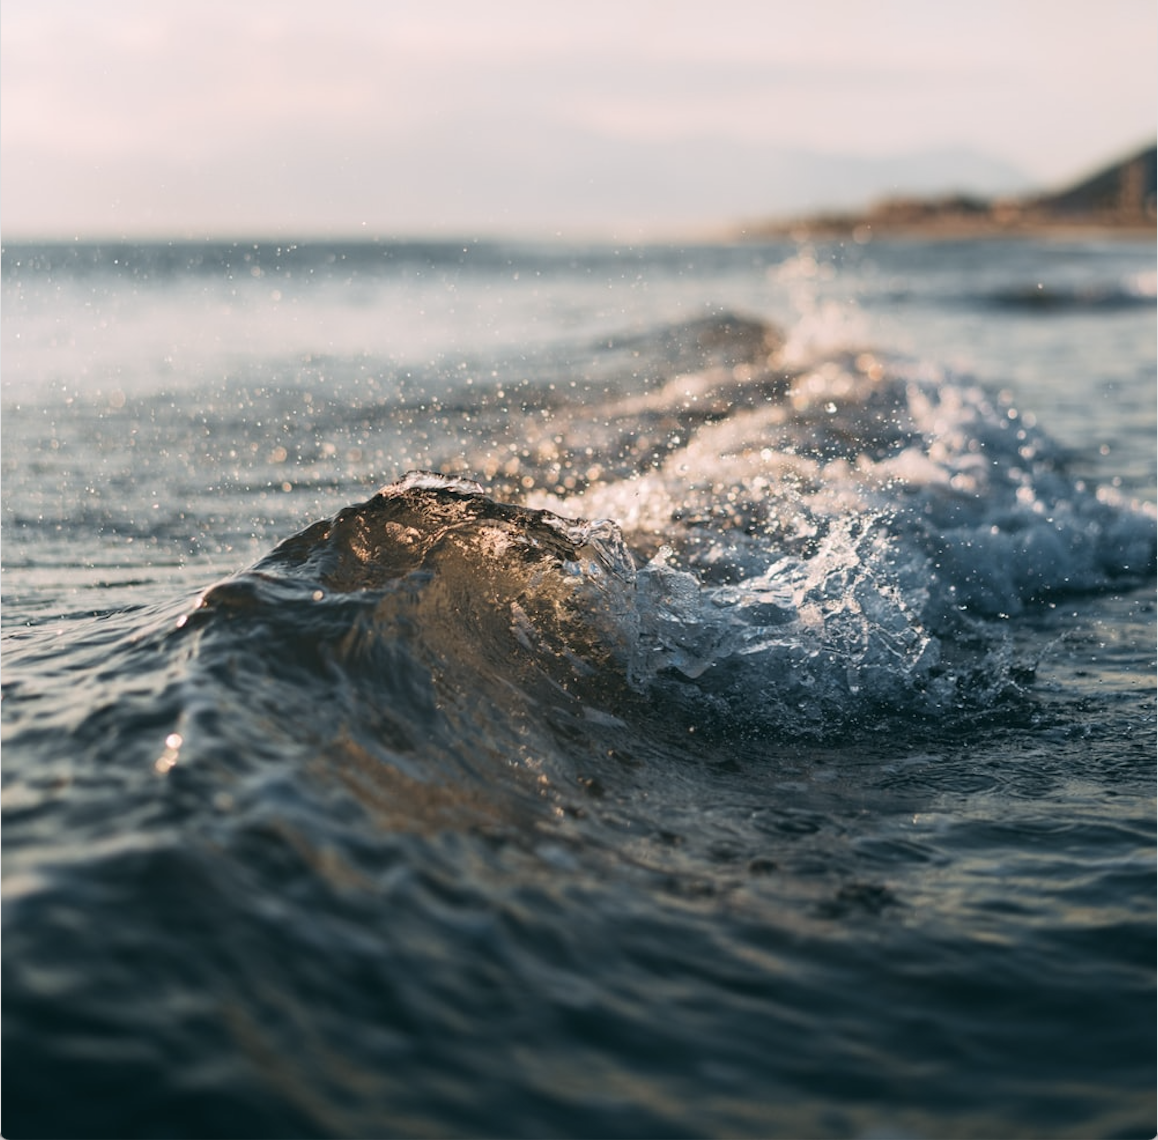
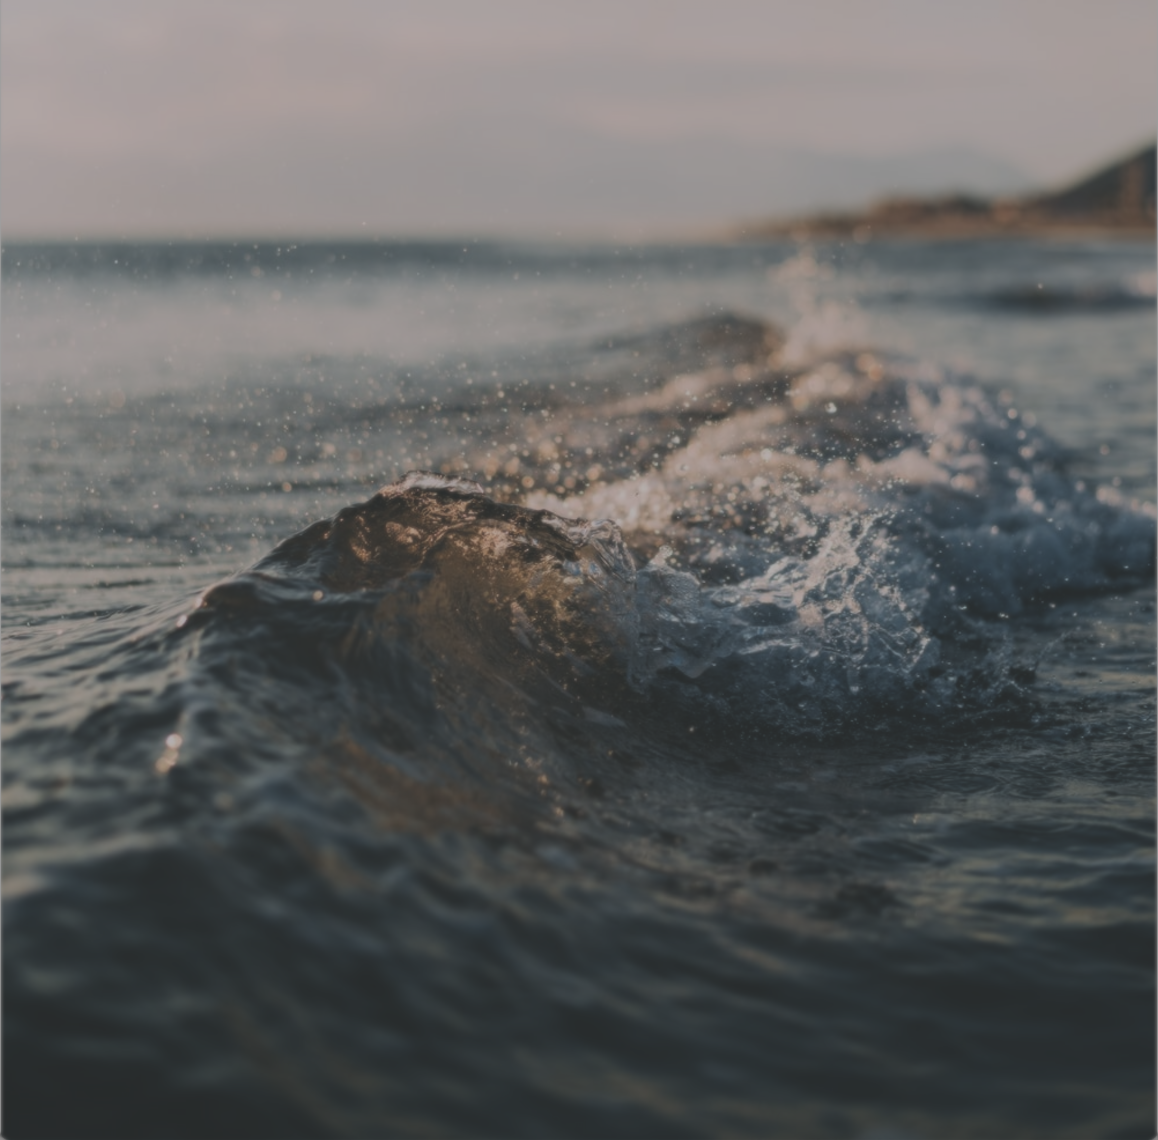
modify contrast, exposure, and sharpness of background images; add FBP conference link on frontpage

diff --git a/static/js/main.4c6695fc.chunk.js b/static/js/main.4c6695fc.chunk.js
@@ -1,0 +1,2 @@
+(this.webpackJsonptb=this.webpackJsonptb||[]).push([[0],{11:function(e,a,t){e.exports=t(20)},16:function(e,a,t){},19:function(e,a,t){},20:function(e,a,t){"use strict";t.r(a);var n=t(0),r=t.n(n),l=t(9),s=t.n(l),c=(t(16),t(1)),i=t(2),o=t(4),m=t(3),u=t(5),h=t(7),d=t(10),p=t.n(d),E=(t(19),function(e){function a(){return Object(c.a)(this,a),Object(o.a)(this,Object(m.a)(a).apply(this,arguments))}return Object(u.a)(a,e),Object(i.a)(a,[{key:"render",value:function(){if(this.props.data)var e=this.props.data.name,a=(this.props.data.chname,this.props.data.occupation),t=(this.props.data.description,"images/"+this.props.data.image),n=(this.props.data.bio,this.props.data.social.map((function(e){return r.a.createElement("li",{key:e.name},r.a.createElement("a",{href:e.url,target:"_blank"},r.a.createElement("i",{className:e.className})))})));return r.a.createElement("header",{id:"home"},r.a.createElement("nav",{id:"nav-wrap"},r.a.createElement("a",{className:"mobile-btn",href:"#nav-wrap",title:"Show navigation"},"Show navigation"),r.a.createElement("a",{className:"mobile-btn",href:"#home",title:"Hide navigation"},"Hide navigation"),r.a.createElement("ul",{id:"nav",className:"nav"},r.a.createElement("li",{className:"current"},r.a.createElement("a",{className:"smoothscroll",href:"#home"},"Home")),r.a.createElement("li",null,r.a.createElement("a",{className:"smoothscroll",href:"#about"},"  About & Contact ")),r.a.createElement("li",null,r.a.createElement("a",{className:"smoothscroll",href:"#resume"},"  CV")),r.a.createElement("li",null,r.a.createElement("a",{className:"smoothscroll",href:"#research"},"  Research")),r.a.createElement("li",null,r.a.createElement("a",{href:"teaching.html"},"  Teaching ")),r.a.createElement("li",null,r.a.createElement("a",{className:"smoothscroll",href:"#testimonials"},"  Life Philosophy")))),r.a.createElement("div",{className:"row banner"},r.a.createElement("div",{className:"banner-img"},r.a.createElement("img",{className:"profile-pic",src:t,alt:"Chen-Chih Profile Pic"})),r.a.createElement("div",{className:"banner-text"},r.a.createElement("h1",{className:"responsive-headline"},e),r.a.createElement("h3",{style:{width:800}}," ",r.a.createElement("div",{style:{"line-height":36}},"Hi! I'm a ",a," passionate about Partial Differential Equations and Fluid Mechanics.")),r.a.createElement("br",null),r.a.createElement("h5",{style:{color:"#FFFF00"}},"Checkout ",r.a.createElement("span",{style:{fontWeight:"bold"}},r.a.createElement("u",null,r.a.createElement("a",{style:{color:"#00EEEE"},href:"https://sites.google.com/view/2023columbiafreeboundary/home?authuser=0"},"Free Boundary Problems: Lecture Series and Recent Advances in Theory and Applications")))),r.a.createElement("h5",{style:{color:"#FFFF00"}},"May 30 \u2013 June 2, 2023 at Columbia University"),r.a.createElement("ul",{className:"social"},n))),r.a.createElement("p",{className:"scrolldown"},r.a.createElement("a",{className:"smoothscroll",href:"#about"},r.a.createElement("i",{className:"icon-down-circle"}))))}}]),a}(n.Component)),f=function(e){function a(){return Object(c.a)(this,a),Object(o.a)(this,Object(m.a)(a).apply(this,arguments))}return Object(u.a)(a,e),Object(i.a)(a,[{key:"render",value:function(){if(this.props.data)var e=this.props.data.social.map((function(e){return r.a.createElement("li",{key:e.name},r.a.createElement("a",{href:e.url},r.a.createElement("i",{className:e.className})))}));return r.a.createElement("footer",null,r.a.createElement("div",{className:"row"},r.a.createElement("div",{className:"twelve columns"},r.a.createElement("ul",{className:"social-links"},e),r.a.createElement("ul",{className:"copyright"},r.a.createElement("li",null,"\xa9 Copyright 2021 ",r.a.createElement("a",{href:"https://github.com/lai-chen-chih?tab=repositories"},"Chen-Chih Lai")))),r.a.createElement("div",{id:"go-top"},r.a.createElement("a",{className:"smoothscroll",title:"Back to Top",href:"#home"},r.a.createElement("i",{className:"icon-up-open"})))))}}]),a}(n.Component),v=function(e){function a(){return Object(c.a)(this,a),Object(o.a)(this,Object(m.a)(a).apply(this,arguments))}return Object(u.a)(a,e),Object(i.a)(a,[{key:"renderText",value:function(e,a){if(void 0!==e.aboutMe){for(var t=e.aboutMe,n=t.indexOf("UBC Math Department");n>0;)a.push(t.substring(0,n)),a.push(r.a.createElement("a",{href:"https://www.math.ubc.ca"},"UBC Math Department ")),n=t.indexOf("UBC Math Department",n+2);a.forEach((function(e,n){for(var l=t.indexOf("Prof. Tai-Peng Tsai");l>0;)a.push(t.substring(0,l)),a.push(r.a.createElement("a",{href:"https://www.math.ubc.ca"},"Prof. Tai-Peng Tsai ")),l=t.indexOf("Prof. Tai-Peng Tsai",l+1)}))}return console.log(a),a}},{key:"render",value:function(){if(this.props.data){var e=this.props.data.name,a=(this.props.data.chname,this.props.data.address.department),t=(this.props.data.image,this.props.data.address.street),n=this.props.data.address.city,l=this.props.data.address.state,s=this.props.data.address.zip,c=this.props.data.office,i=this.props.data.email;this.props.data.resumedownload,this.props.data.aboutMe}return r.a.createElement("section",{id:"about"},r.a.createElement("div",{className:"row banner"},r.a.createElement("div",{className:"banner-text"},r.a.createElement("h2",null,"About Me"),r.a.createElement("p",null,"I am a Postdoctoral Research Scientist in the",r.a.createElement("a",{href:"https://www.math.columbia.edu"}," Department of Mathematics "),"at",r.a.createElement("a",{href:"https://www.columbia.edu"}," Columbia University "),"under the mentorship of Prof. ",r.a.createElement("a",{href:"http://www.columbia.edu/~miw2103/"},"Michael I. Weinstein"),". My research interest covers regularity of Navier\u2013Stokes flows near boundary, existence and stability problems in fluid-related models, and dynamic free boundary problems. Currently, I am interested in dynamics and geometry of a gas bubble deforming in a liquid.",r.a.createElement("br",null),r.a.createElement("h2",null),"I received my Ph.D. in the",r.a.createElement("a",{href:"https://www.math.ubc.ca"}," Department of Mathematics "),"at the",r.a.createElement("a",{href:"https://www.ubc.ca"}," Univeristy of British Columbia (UBC) "),"in July 2021, where I investigated the Green tensor of incompressible flows in the half space and examined existence theorems of fluid-related models under the supervision of Prof. ",r.a.createElement("a",{href:"http://www.math.ubc.ca/~ttsai/"},"Tai-Peng Tsai "),"and Prof. ",r.a.createElement("a",{href:"https://www.math.ubc.ca/~jcwei/"},"Juncheng Wei"),". Previously I studied reaction-diffusion equations and synchronization problems at ",r.a.createElement("a",{href:"http://www.ncts.ntu.edu.tw"},"National Center for Theoretical Science (NCTS)")," as a Research Assistant under the supervision of Prof. ",r.a.createElement("a",{href:"http://ncts.tw/people_detail.php?gid=122&bgid=4"},"Chun-Hsiung Hsia"),". Before that, I completed my M.Sc. in the",r.a.createElement("a",{href:"http://www.math.ntu.edu.tw/en"}," Department of Mathematics "),"at",r.a.createElement("a",{href:"https://www.ntu.edu.tw/english/"}," National Taiwan University (NTU) "),", where I worked on population estimates for traveling waves of Lotka\u2013Voterra system under the supervision of Prof. ",r.a.createElement("a",{href:"http://www.math.ntu.edu.tw/en/entity_people/entity_people/21478"}," Chun-Hsiung Hsia"),", Prof. ",r.a.createElement("a",{href:"http://www.math.ntu.edu.tw/en/entity_people/entity_people/21458"}," Chiun-Chuan Chen"),", and Dr. ",r.a.createElement("a",{href:"https://www.ce.ntust.edu.tw/p/404-1024-65378.php?Lang=zh-tw"}," Li-Chang Hung"),"."),r.a.createElement("div",{className:"row"},r.a.createElement("div",{className:"columns contact-details"},r.a.createElement("h2",null,"Contact Details"),r.a.createElement("p",{className:"address"},r.a.createElement("span",null,e),r.a.createElement("br",null),r.a.createElement("span",null,a),r.a.createElement("br",null),r.a.createElement("span",null,t,r.a.createElement("br",null),n,", ",l," ",s),r.a.createElement("br",null),r.a.createElement("span",null,c),r.a.createElement("br",null),r.a.createElement("span",null,i)))))))}}]),a}(n.Component),b=function(e){function a(){return Object(c.a)(this,a),Object(o.a)(this,Object(m.a)(a).apply(this,arguments))}return Object(u.a)(a,e),Object(i.a)(a,[{key:"render",value:function(){if(this.props.data){this.props.data.skillmessage;var e=this.props.data.employment.map((function(e){return r.a.createElement("div",{key:e.title},r.a.createElement("h1",null,e.title),r.a.createElement("p",null,e.course," \u2022 ",e.date))})),a=this.props.data.education.map((function(e){return r.a.createElement("div",null,r.a.createElement("div",{key:e.degree},r.a.createElement("h1",null,e.degree),r.a.createElement("p",{className:"info"},e.school,r.a.createElement("span",null,"\u2022"),r.a.createElement("em",{className:"date"},e.graduated))),r.a.createElement("p",null,void 0!==e.supervisors?void 0!==e.supervisor2?"Supervisors: Prof. ":"Supervisor: Prof. ":void 0,r.a.createElement("a",{href:e.supervisorUrl,target:"_blank"}," ",e.supervisors),void 0!==e.supervisor2?" and Prof. ":void 0,r.a.createElement("a",{href:e.supervisorUrl2,target:"_blank"}," ",e.supervisor2),r.a.createElement("br",null),void 0!==e.description?"Thesis:":void 0,r.a.createElement("a",{href:e.url,target:"_blank"}," ",e.description)))})),t=this.props.data.research.map((function(e){return r.a.createElement("div",{key:e.company},r.a.createElement("a",{href:e.url,target:"_blank"},r.a.createElement("h1",null,e.company)),r.a.createElement("div",null,e.authors,r.a.createElement("p",{className:"info"},e.publisher,r.a.createElement("span",null,"\u2022")," ",r.a.createElement("em",{className:"date"},e.years)),r.a.createElement("p",null,e.description)))})),n=this.props.data.preprints.map((function(e){return r.a.createElement("div",{key:e.company},r.a.createElement("a",{href:e.url,target:"_blank"},r.a.createElement("h1",null,e.company)),r.a.createElement("div",null,e.authors,r.a.createElement("p",{className:"info"},e.publisher,r.a.createElement("span",null,"\u2022")," ",r.a.createElement("em",{className:"date"},e.years)),r.a.createElement("p",null,e.description)))})),l=this.props.data.awards.map((function(e){return r.a.createElement("div",{key:e.title},r.a.createElement("h1",null,e.title),r.a.createElement("p",null,r.a.createElement("a",{href:e.url})," ",e.location," \u2022 ",e.date))})),s=this.props.data.talks.map((function(e){return r.a.createElement("div",{key:e.title},r.a.createElement("a",{href:e.url,target:"_blank"},r.a.createElement("h1",null,e.title)),r.a.createElement("p",null,r.a.createElement("a",{href:e.url})," ",e.location," \u2022 ",e.date))})),c=this.props.data.present.map((function(e){return r.a.createElement("div",{key:e.title},r.a.createElement("a",{href:e.url,target:"_blank"},r.a.createElement("h1",null,e.title)),r.a.createElement("p",null,r.a.createElement("a",{href:e.url})," ",e.location," \u2022 ",e.date))}));this.props.data.skills.map((function(e){var a="bar-expand "+e.name.toLowerCase();return r.a.createElement("li",{key:e.name},r.a.createElement("span",{style:{width:e.level},className:a}),r.a.createElement("em",null,e.name))})),this.props.data.teaching.map((function(e){return r.a.createElement("div",{key:e.title},r.a.createElement("h1",null,e.title),r.a.createElement("p",null,e.course," \u2022 ",e.date))}))}return r.a.createElement("section",{id:"resume"},r.a.createElement("div",{className:"row education"},r.a.createElement("div",{className:"three columns header-col"},r.a.createElement("h1",null,r.a.createElement("span",null,"Employment"))),r.a.createElement("div",{className:"nine columns main-col"},e)),r.a.createElement("div",{className:"row education"},r.a.createElement("div",{className:"three columns header-col"},r.a.createElement("h1",null,r.a.createElement("span",null,"Education"))),r.a.createElement("div",{className:"nine columns main-col"},a,r.a.createElement("a",{class:"anchor",id:"research"}))),r.a.createElement("div",{className:"row education"},r.a.createElement("div",{className:"three columns header-col"},r.a.createElement("h1",null,r.a.createElement("span",null,"Research Interests"))),r.a.createElement("div",{className:"nine columns main-col"},"Nonlinear partial differential equations, Navier\u2013Stokes equations, Green tensor of Stokes system, dynamic free boundary problems, bubble dynamics, chemotaxis-fluid models, self-similar and discretely self-similar solutions, concentration and blow-up phenomena for parabolic PDEs, reaction-diffusion systems")),r.a.createElement("div",{className:"row education"},r.a.createElement("div",{className:"three columns header-col"},r.a.createElement("h1",null,r.a.createElement("span",null,"Publications"))),r.a.createElement("div",{className:"nine columns main-col"},t)),r.a.createElement("div",{className:"row education"},r.a.createElement("div",{className:"three columns header-col"},r.a.createElement("h1",null,r.a.createElement("span",null,"Preprints"))),r.a.createElement("div",{className:"nine columns main-col"},n)),r.a.createElement("div",{className:"row education"},r.a.createElement("div",{className:"three columns header-col"},r.a.createElement("h1",null,r.a.createElement("span",null,"Awards"))),r.a.createElement("div",{className:"nine columns main-col"},l)),r.a.createElement("div",{className:"row education"},r.a.createElement("div",{className:"three columns header-col"},r.a.createElement("h1",null,r.a.createElement("span",null,"Conference/Workshop Presentations"))),r.a.createElement("div",{className:"nine columns main-col"},s)),r.a.createElement("div",{className:"row research"},r.a.createElement("div",{className:"three columns header-col"},r.a.createElement("h1",null,r.a.createElement("span",null,"Seminar/Colloquium Presentations"))),r.a.createElement("div",{className:"nine columns main-col"},c)))}}]),a}(n.Component),w=(n.Component,function(e){function a(){return Object(c.a)(this,a),Object(o.a)(this,Object(m.a)(a).apply(this,arguments))}return Object(u.a)(a,e),Object(i.a)(a,[{key:"render",value:function(){if(this.props.data)this.props.data.testimonials.map((function(e){return r.a.createElement("li",{key:e.user},r.a.createElement("blockquote",null,r.a.createElement("p",null,e.text),r.a.createElement("cite",null,e.user)))}));return r.a.createElement("section",{id:"testimonials"},r.a.createElement("div",{className:"text-container"},r.a.createElement("div",{className:"row"},r.a.createElement("div",{className:"two columns header-col"},r.a.createElement("h1",null,r.a.createElement("span",null,"Client Testimonials"))),r.a.createElement("div",{className:"ten columns flex-container"},r.a.createElement("ul",{className:"slides"},r.a.createElement("blockquote",null,r.a.createElement("p",null,"From now on,",r.a.createElement("br",null),"Should it grow and open full, the sweet clematis",r.a.createElement("br",null),"Flower bold, but there's no need for rejoicing more",r.a.createElement("br",null),"Precious life, this life, just once, it comes just one time",r.a.createElement("br",null),"Keep it close, keep it from ever just leaving you",r.a.createElement("br",null)),r.a.createElement("cite",null,"Stem (Daimy\u014d Asobi-hen) by Ringo Sheena")))))))}}]),a}(n.Component)),y=function(e){function a(){return Object(c.a)(this,a),Object(o.a)(this,Object(m.a)(a).apply(this,arguments))}return Object(u.a)(a,e),Object(i.a)(a,[{key:"render",value:function(){if(this.props.data)var e=this.props.data.projects.map((function(e){var a="images/portfolio/"+e.image;return r.a.createElement("div",{key:e.title,className:"columns portfolio-item"},r.a.createElement("div",{className:"item-wrap"},r.a.createElement("a",{href:e.url,target:"_blank",title:e.title},r.a.createElement("img",{alt:e.title,src:a,width:"20",height:"20"}),r.a.createElement("div",{className:"overlay"},r.a.createElement("div",{className:"portfolio-item-meta"},r.a.createElement("h5",null,e.title))),r.a.createElement("div",{className:"link-icon"},r.a.createElement("i",{className:"fa fa-link"})))))}));return r.a.createElement("section",{id:"portfolio"},r.a.createElement("div",{className:"row"},r.a.createElement("div",{className:"twelve columns collapsed"},r.a.createElement("h1",null,"Check Out Some Interesting Math Websites"),r.a.createElement("div",{id:"portfolio-wrapper",className:"bgrid-quarters s-bgrid-thirds cf"},e))))}}]),a}(n.Component),g=function(e){function a(e){var t;return Object(c.a)(this,a),(t=Object(o.a)(this,Object(m.a)(a).call(this,e))).state={foo:"bar",resumeData:{}},h.a.initialize("UA-110570651-1"),h.a.pageview(window.location.pathname),t}return Object(u.a)(a,e),Object(i.a)(a,[{key:"getResumeData",value:function(){p.a.ajax({url:"./resumeData.json",dataType:"json",cache:!1,success:function(e){this.setState({resumeData:e})}.bind(this),error:function(e,a,t){console.log(t),alert(t)}})}},{key:"componentDidMount",value:function(){this.getResumeData()}},{key:"render",value:function(){return r.a.createElement("div",{className:"App"},r.a.createElement(E,{data:this.state.resumeData.main}),r.a.createElement(v,{data:this.state.resumeData.main}),r.a.createElement(b,{data:this.state.resumeData.resume}),r.a.createElement(y,{data:this.state.resumeData.portfolio}),r.a.createElement(w,{data:this.state.resumeData.testimonials}),r.a.createElement(f,{data:this.state.resumeData.main}))}}]),a}(n.Component),N=Boolean("localhost"===window.location.hostname||"[::1]"===window.location.hostname||window.location.hostname.match(/^127(?:\.(?:25[0-5]|2[0-4][0-9]|[01]?[0-9][0-9]?)){3}$/));function k(e){navigator.serviceWorker.register(e).then((function(e){e.onupdatefound=function(){var a=e.installing;a.onstatechange=function(){"installed"===a.state&&(navigator.serviceWorker.controller?console.log("New content is available; please refresh."):console.log("Content is cached for offline use."))}}})).catch((function(e){console.error("Error during service worker registration:",e)}))}s.a.render(r.a.createElement(g,null),document.getElementById("root")),function(){if("serviceWorker"in navigator){if(new URL("/personal-website",window.location).origin!==window.location.origin)return;window.addEventListener("load",(function(){var e="".concat("/personal-website","/service-worker.js");N?function(e){fetch(e).then((function(a){404===a.status||-1===a.headers.get("content-type").indexOf("javascript")?navigator.serviceWorker.ready.then((function(e){e.unregister().then((function(){window.location.reload()}))})):k(e)})).catch((function(){console.log("No internet connection found. App is running in offline mode.")}))}(e):k(e)}))}}()}},[[11,1,2]]]);
+//# sourceMappingURL=main.4c6695fc.chunk.js.map

diff --git a/index.html b/index.html
@@ -1,1 +1,1 @@
-<!doctype html><html lang="en"><head><meta charset="utf-8"><meta name="viewport" content="width=device-width,initial-scale=1,shrink-to-fit=no"><meta name="theme-color" content="#000000"><link rel="manifest" href="/personal-website/manifest.json"><link rel="shortcut icon" href="/personal-website/favicon.ico"><link rel="stylesheet" href="/personal-website/css/default.css"><link rel="stylesheet" href="/personal-website/css/layout.css"><link rel="stylesheet" href="/personal-website/css/media-queries.css"><link rel="stylesheet" href="/personal-website/css/magnific-popup.css"><link rel="stylesheet" href="https://cdn.jsdelivr.net/gh/jpswalsh/academicons@1/css/academicons.min.css"><title>Chen-Chih Lai Website</title><link href="/personal-website/static/css/main.5facb584.chunk.css" rel="stylesheet"></head><body><noscript>You need to enable JavaScript to run this app.</noscript><div id="root"></div><script src="https://ajax.googleapis.com/ajax/libs/jquery/1.10.2/jquery.min.js"></script><script>window.jQuery||document.write('<script src="js/jquery-1.10.2.min.js"><\/script>')</script><script type="text/javascript" src="js/jquery-migrate-1.2.1.min.js"></script><script src="js/jquery.flexslider.js"></script><script src="js/waypoints.js"></script><script src="js/jquery.fittext.js"></script><script src="js/magnific-popup.js"></script><script src="js/init.js"></script><script>!function(a){function e(e){for(var t,r,n=e[0],o=e[1],u=e[2],l=0,i=[];l<n.length;l++)r=n[l],Object.prototype.hasOwnProperty.call(p,r)&&p[r]&&i.push(p[r][0]),p[r]=0;for(t in o)Object.prototype.hasOwnProperty.call(o,t)&&(a[t]=o[t]);for(s&&s(e);i.length;)i.shift()();return c.push.apply(c,u||[]),f()}function f(){for(var e,t=0;t<c.length;t++){for(var r=c[t],n=!0,o=1;o<r.length;o++){var u=r[o];0!==p[u]&&(n=!1)}n&&(c.splice(t--,1),e=l(l.s=r[0]))}return e}var r={},p={1:0},c=[];function l(e){if(r[e])return r[e].exports;var t=r[e]={i:e,l:!1,exports:{}};return a[e].call(t.exports,t,t.exports,l),t.l=!0,t.exports}l.m=a,l.c=r,l.d=function(e,t,r){l.o(e,t)||Object.defineProperty(e,t,{enumerable:!0,get:r})},l.r=function(e){"undefined"!=typeof Symbol&&Symbol.toStringTag&&Object.defineProperty(e,Symbol.toStringTag,{value:"Module"}),Object.defineProperty(e,"__esModule",{value:!0})},l.t=function(t,e){if(1&e&&(t=l(t)),8&e)return t;if(4&e&&"object"==typeof t&&t&&t.__esModule)return t;var r=Object.create(null);if(l.r(r),Object.defineProperty(r,"default",{enumerable:!0,value:t}),2&e&&"string"!=typeof t)for(var n in t)l.d(r,n,function(e){return t[e]}.bind(null,n));return r},l.n=function(e){var t=e&&e.__esModule?function(){return e.default}:function(){return e};return l.d(t,"a",t),t},l.o=function(e,t){return Object.prototype.hasOwnProperty.call(e,t)},l.p="/personal-website/";var t=this.webpackJsonptb=this.webpackJsonptb||[],n=t.push.bind(t);t.push=e,t=t.slice();for(var o=0;o<t.length;o++)e(t[o]);var s=n;f()}([])</script><script src="/personal-website/static/js/2.44a9d184.chunk.js"></script><script src="/personal-website/static/js/main.019e63d1.chunk.js"></script></body></html>
+<!doctype html><html lang="en"><head><meta charset="utf-8"><meta name="viewport" content="width=device-width,initial-scale=1,shrink-to-fit=no"><meta name="theme-color" content="#000000"><link rel="manifest" href="/personal-website/manifest.json"><link rel="shortcut icon" href="/personal-website/favicon.ico"><link rel="stylesheet" href="/personal-website/css/default.css"><link rel="stylesheet" href="/personal-website/css/layout.css"><link rel="stylesheet" href="/personal-website/css/media-queries.css"><link rel="stylesheet" href="/personal-website/css/magnific-popup.css"><link rel="stylesheet" href="https://cdn.jsdelivr.net/gh/jpswalsh/academicons@1/css/academicons.min.css"><title>Chen-Chih Lai Website</title><link href="/personal-website/static/css/main.5facb584.chunk.css" rel="stylesheet"></head><body><noscript>You need to enable JavaScript to run this app.</noscript><div id="root"></div><script src="https://ajax.googleapis.com/ajax/libs/jquery/1.10.2/jquery.min.js"></script><script>window.jQuery||document.write('<script src="js/jquery-1.10.2.min.js"><\/script>')</script><script type="text/javascript" src="js/jquery-migrate-1.2.1.min.js"></script><script src="js/jquery.flexslider.js"></script><script src="js/waypoints.js"></script><script src="js/jquery.fittext.js"></script><script src="js/magnific-popup.js"></script><script src="js/init.js"></script><script>!function(a){function e(e){for(var t,r,n=e[0],o=e[1],u=e[2],l=0,i=[];l<n.length;l++)r=n[l],Object.prototype.hasOwnProperty.call(p,r)&&p[r]&&i.push(p[r][0]),p[r]=0;for(t in o)Object.prototype.hasOwnProperty.call(o,t)&&(a[t]=o[t]);for(s&&s(e);i.length;)i.shift()();return c.push.apply(c,u||[]),f()}function f(){for(var e,t=0;t<c.length;t++){for(var r=c[t],n=!0,o=1;o<r.length;o++){var u=r[o];0!==p[u]&&(n=!1)}n&&(c.splice(t--,1),e=l(l.s=r[0]))}return e}var r={},p={1:0},c=[];function l(e){if(r[e])return r[e].exports;var t=r[e]={i:e,l:!1,exports:{}};return a[e].call(t.exports,t,t.exports,l),t.l=!0,t.exports}l.m=a,l.c=r,l.d=function(e,t,r){l.o(e,t)||Object.defineProperty(e,t,{enumerable:!0,get:r})},l.r=function(e){"undefined"!=typeof Symbol&&Symbol.toStringTag&&Object.defineProperty(e,Symbol.toStringTag,{value:"Module"}),Object.defineProperty(e,"__esModule",{value:!0})},l.t=function(t,e){if(1&e&&(t=l(t)),8&e)return t;if(4&e&&"object"==typeof t&&t&&t.__esModule)return t;var r=Object.create(null);if(l.r(r),Object.defineProperty(r,"default",{enumerable:!0,value:t}),2&e&&"string"!=typeof t)for(var n in t)l.d(r,n,function(e){return t[e]}.bind(null,n));return r},l.n=function(e){var t=e&&e.__esModule?function(){return e.default}:function(){return e};return l.d(t,"a",t),t},l.o=function(e,t){return Object.prototype.hasOwnProperty.call(e,t)},l.p="/personal-website/";var t=this.webpackJsonptb=this.webpackJsonptb||[],n=t.push.bind(t);t.push=e,t=t.slice();for(var o=0;o<t.length;o++)e(t[o]);var s=n;f()}([])</script><script src="/personal-website/static/js/2.44a9d184.chunk.js"></script><script src="/personal-website/static/js/main.4c6695fc.chunk.js"></script></body></html>

diff --git a/precache-manifest.c67a375919bbfeeecd25a3a45d9b24ef.js b/precache-manifest.c67a375919bbfeeecd25a3a45d9b24ef.js
@@ -1,0 +1,22 @@
+self.__precacheManifest = (self.__precacheManifest || []).concat([
+  {
+    "revision": "18157dfb0e89695bbc30711393ca0d02",
+    "url": "/personal-website/index.html"
+  },
+  {
+    "revision": "fff21848ba9c28cb38cd",
+    "url": "/personal-website/static/css/main.5facb584.chunk.css"
+  },
+  {
+    "revision": "380368e23f5a0a2f4bd5",
+    "url": "/personal-website/static/js/2.44a9d184.chunk.js"
+  },
+  {
+    "revision": "fff21848ba9c28cb38cd",
+    "url": "/personal-website/static/js/main.4c6695fc.chunk.js"
+  },
+  {
+    "revision": "2ed28986d76ad3bd96b5",
+    "url": "/personal-website/static/js/runtime-main.f2de4a92.js"
+  }
+]);

diff --git a/service-worker.js b/service-worker.js
@@ -14,7 +14,7 @@
 importScripts("https://storage.googleapis.com/workbox-cdn/releases/4.3.1/workbox-sw.js");
 
 importScripts(
-  "/personal-website/precache-manifest.30893e819098e9ffc92e3b0b9f2895b1.js"
+  "/personal-website/precache-manifest.c67a375919bbfeeecd25a3a45d9b24ef.js"
 );
 
 self.addEventListener('message', (event) => {
